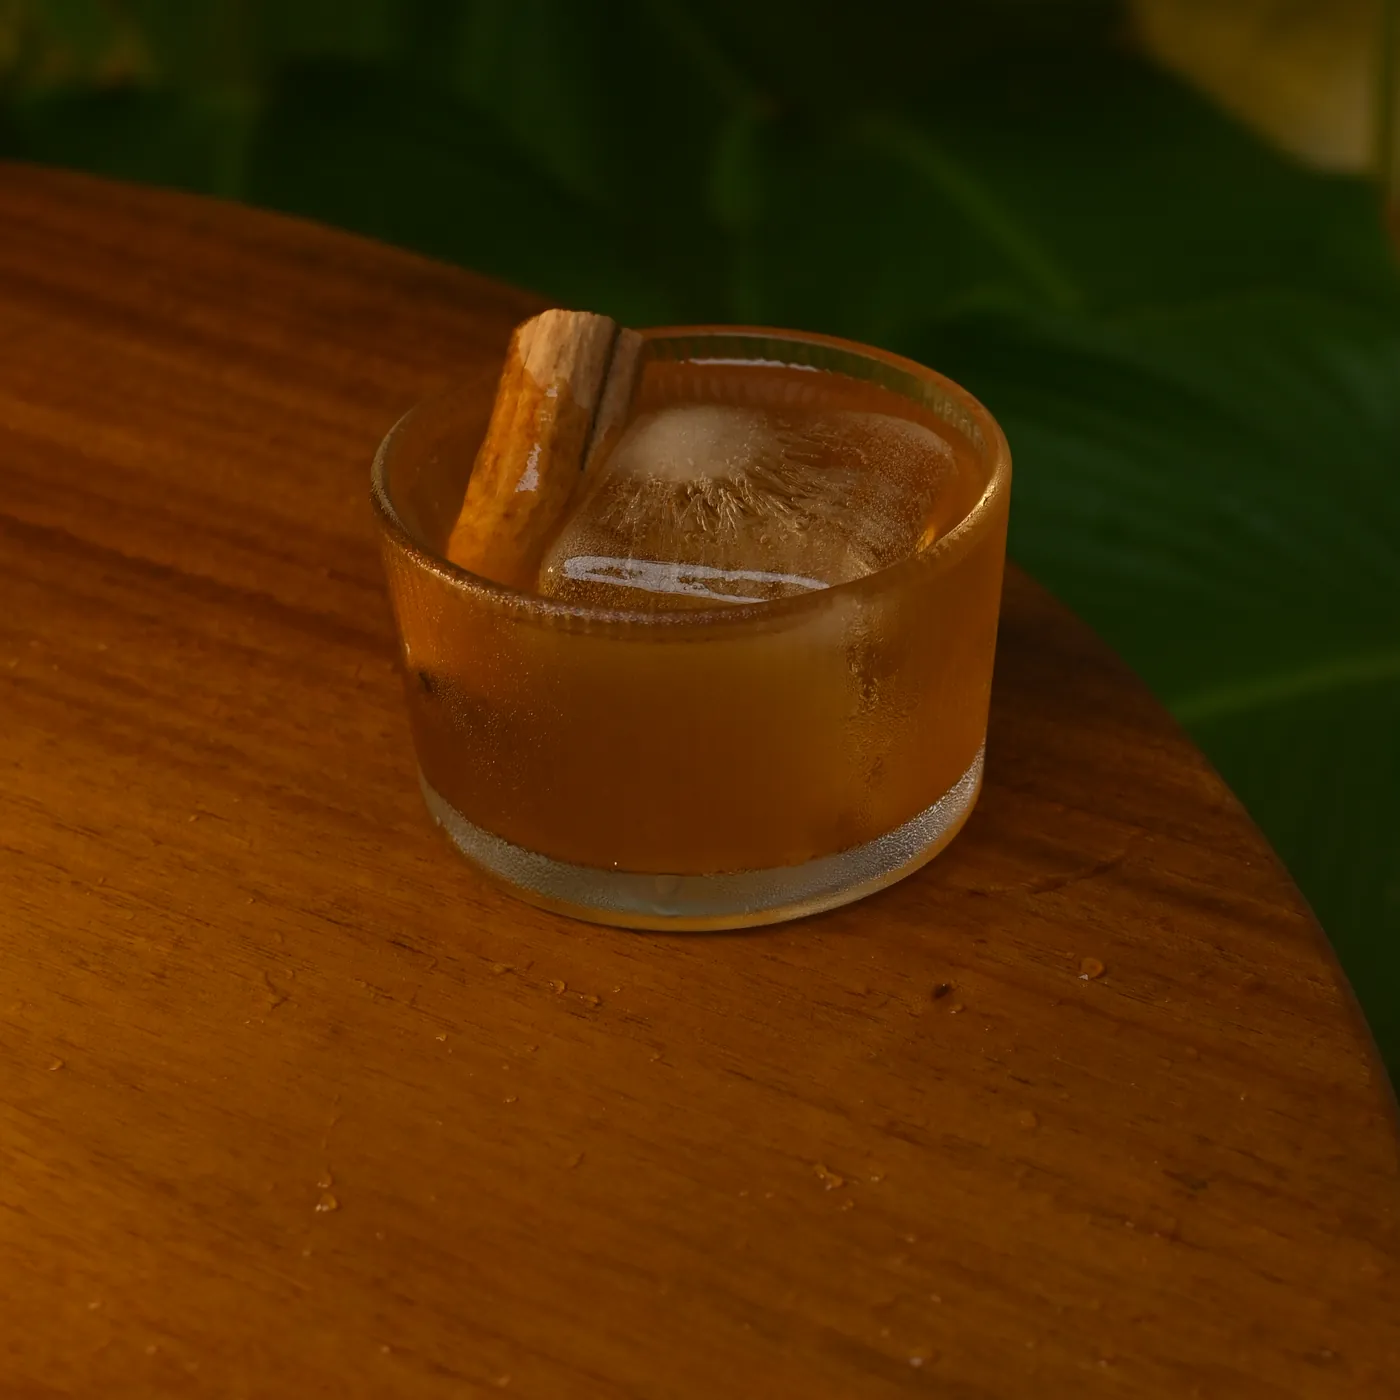
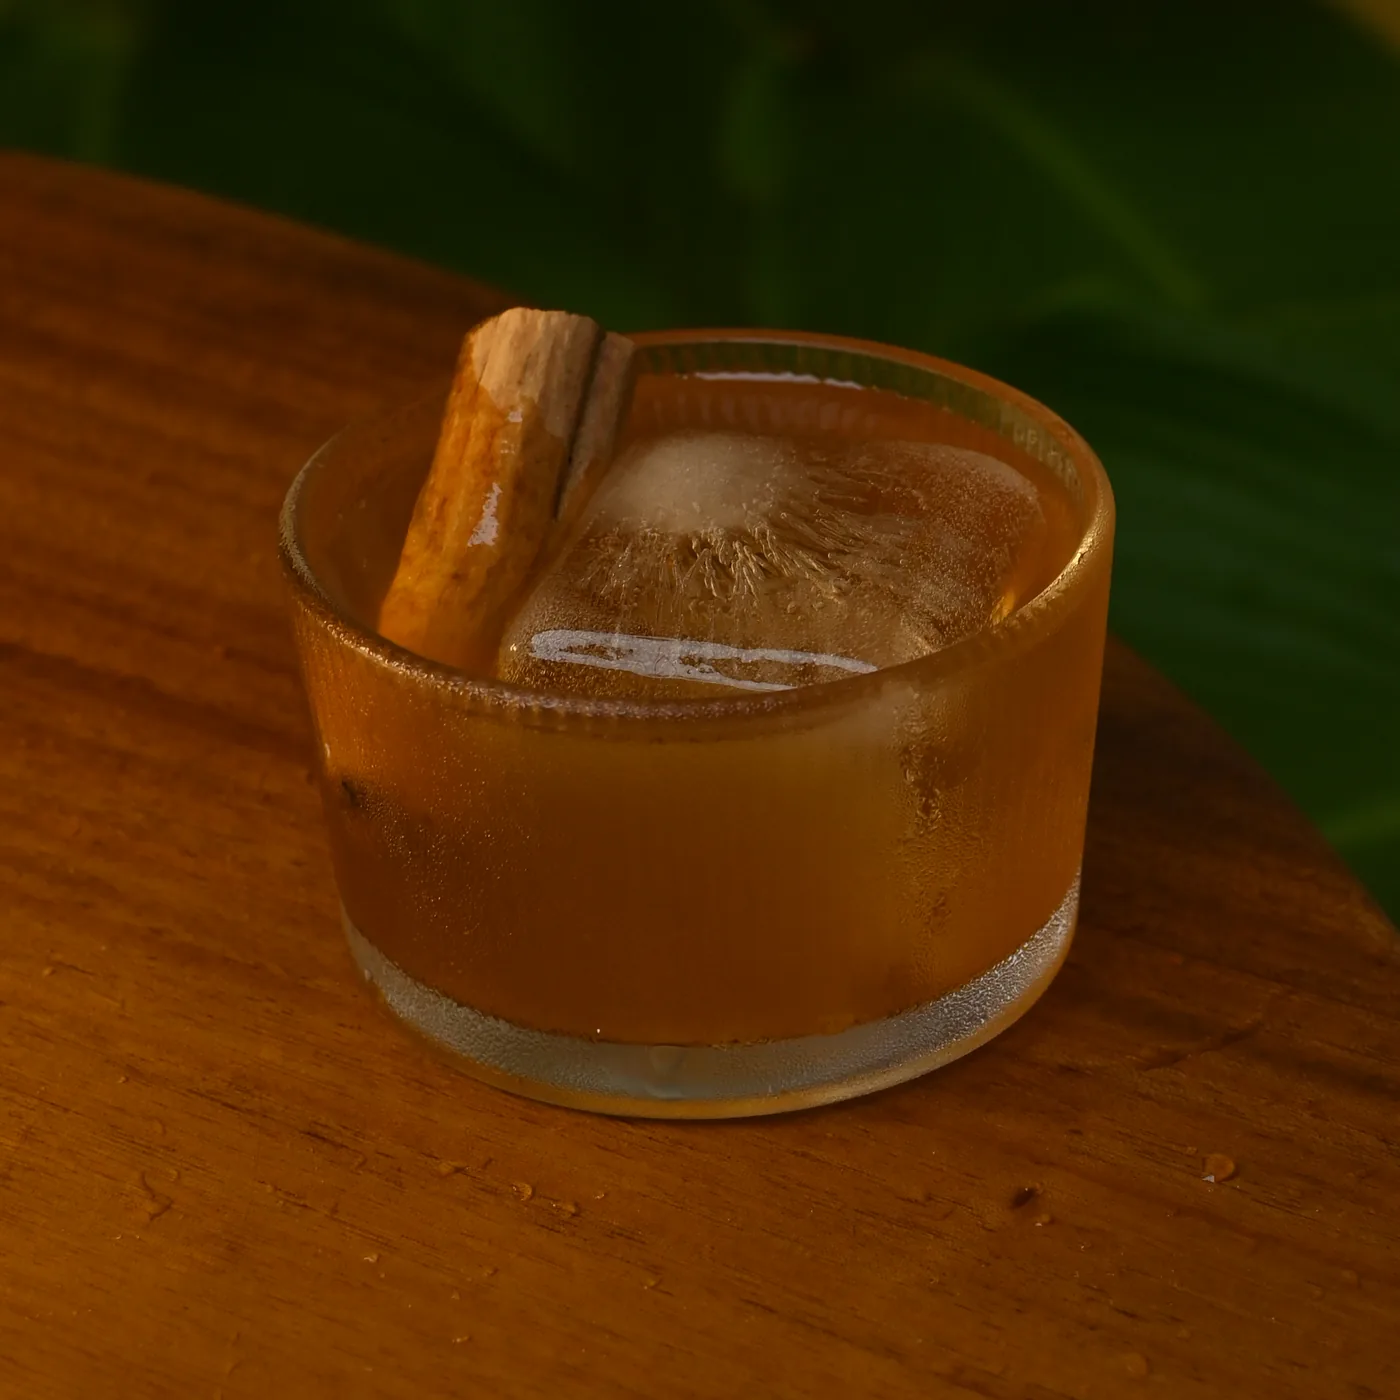
new

diff --git a/src/lib/i18n/ru.ts b/src/lib/i18n/ru.ts
@@ -182,7 +182,7 @@ const ru: Dict = {
     amberGlow: "Янтарный коктейль на арраке с палочкой корицы и льдом",
     islandEspresso: "Кофейный коктейль с густой пенкой и кофейными зёрнами",
     pineappleHellfire: "Ананасовый коктейль с красным чили и сушёным ананасом",
-    monsoonMelon: "Арбузный коктейль с дымящейся веточкой розмарина",
+    monsoonMelon: "Арбузный коктейль с веточкой розмарина на бортике бассейна",
     hero: "Бассейн и лаунж KOKOY под соломенной крышей",
     poolSunset: "Бассейн KOKOY под соломенным навесом",
     poolLounger: "Диваны и кресла у бассейна KOKOY",

diff --git a/src/lib/i18n/en.ts b/src/lib/i18n/en.ts
@@ -186,7 +186,7 @@ const en = {
     amberGlow: "An amber arrack cocktail with a cinnamon stick over ice",
     islandEspresso: "An espresso cocktail with a thick crema and coffee beans",
     pineappleHellfire: "A pineapple cocktail garnished with red chilli and dried pineapple",
-    monsoonMelon: "A watermelon cocktail with a smoking sprig of rosemary",
+    monsoonMelon: "A watermelon cocktail with a sprig of rosemary on the pool edge",
     hero: "The KOKOY pool and lounge under the thatched roof",
     poolSunset: "The KOKOY pool beneath its thatched canopy",
     poolLounger: "Sofas and lounge chairs beside the KOKOY pool",

diff --git a/src/lib/content.ts b/src/lib/content.ts
@@ -57,7 +57,7 @@ export const IMG = {
   amberGlow: "/photos/kokoy-dsc-0667-amber-glow.webp",
   islandEspresso: "/photos/kokoy-dsc-0775-island-espresso.webp",
   pineappleHellfire: "/photos/kokoy-dsc-0791-pineapple-hellfire.webp",
-  monsoonMelon: "/photos/kokoy-dsc-0459-monsoon-melon.webp",
+  monsoonMelon: "/photos/kokoy-dsc-0424-monsoon-melon.webp",
 } as const;
 
 export type ImgKey = keyof typeof IMG;
